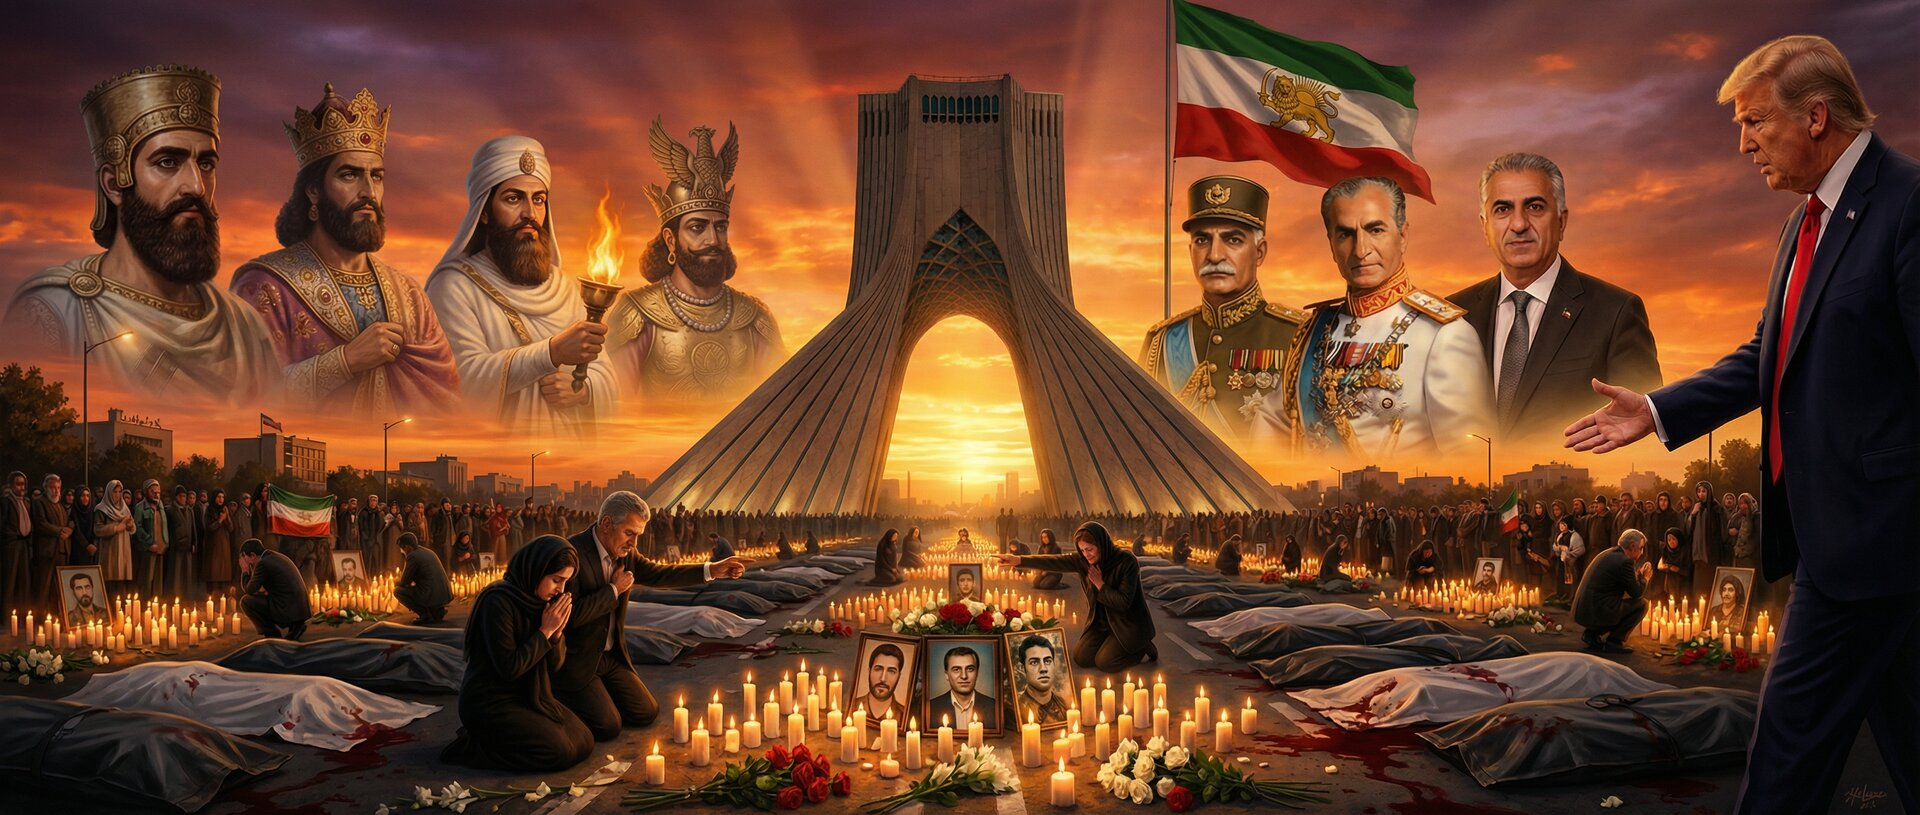
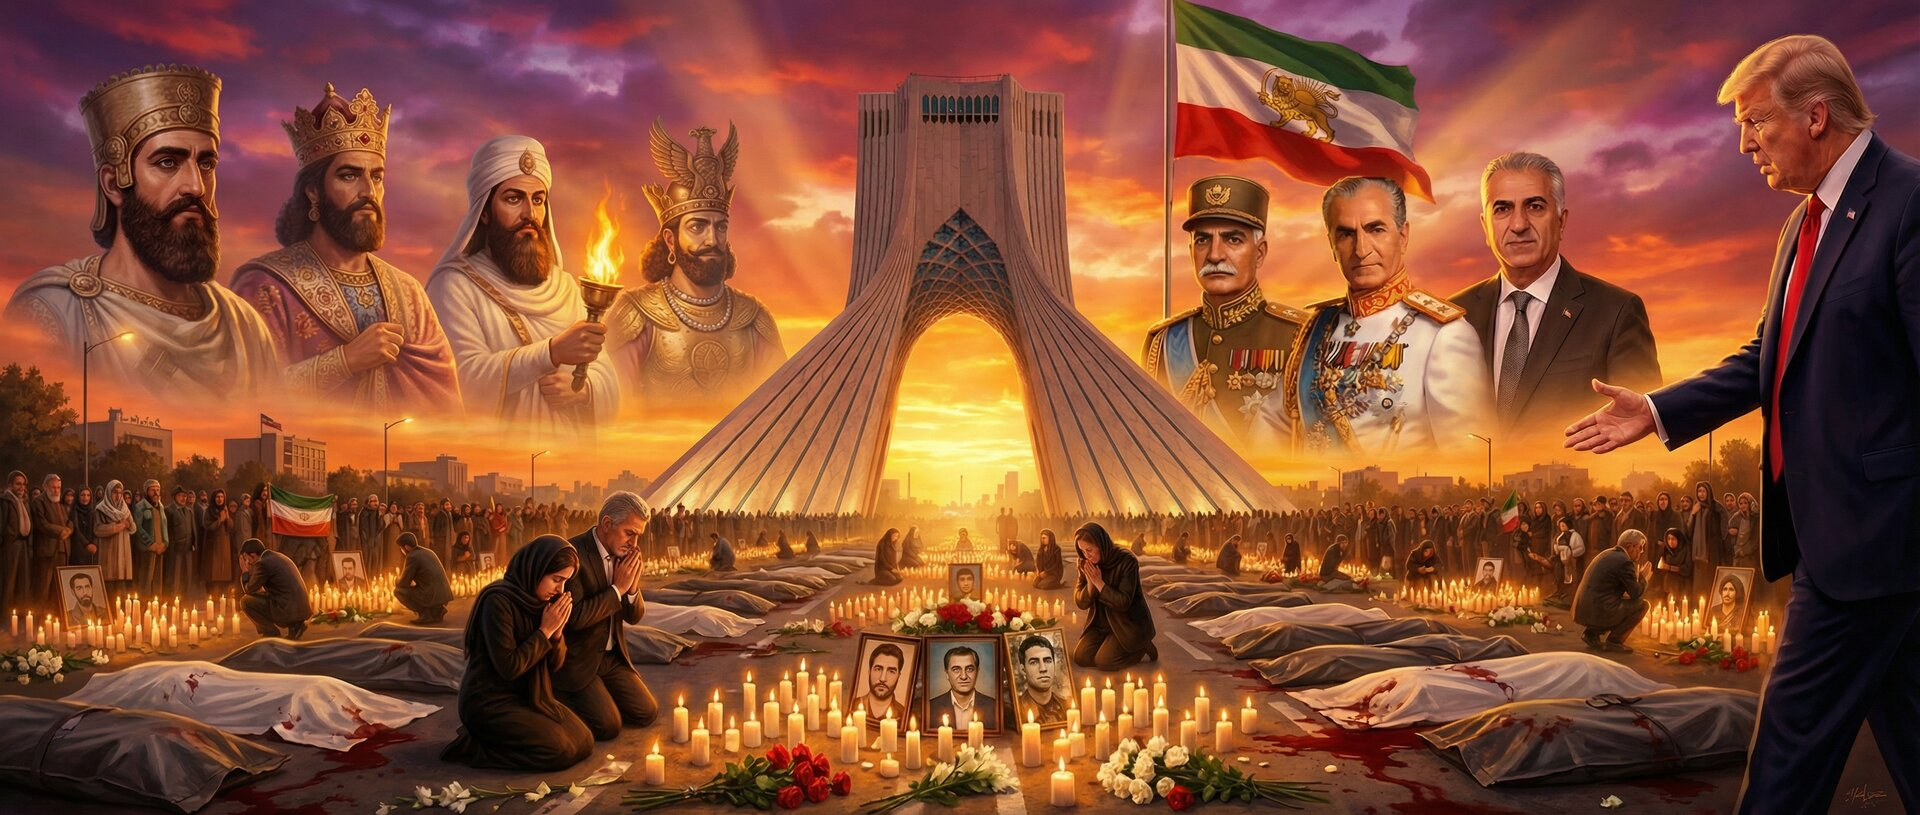
Dark mode only, red-only colors, simplified fonts, new hero
- Set dark mode as default (removed theme toggle)
- Removed all gold/yellow - using red only for accents
- Simplified font stack to system fonts
- Updated to lighter hero banner image (330KB)

diff --git a/src/styles.css b/src/styles.css
@@ -30,19 +30,19 @@
     --secondary-foreground: oklch(0.20 0.01 0);
     --muted: oklch(0.96 0 0);
     --muted-foreground: oklch(0.45 0.01 0);
-    --accent: var(--iran-gold);
-    --accent-foreground: oklch(0.15 0.01 0);
+    --accent: var(--iran-red-light);
+    --accent-foreground: oklch(0.99 0 0);
     --destructive: var(--iran-red-dark);
     --border: oklch(0.90 0 0);
     --input: oklch(0.90 0 0);
     --ring: var(--iran-red);
 
-    /* Chart colors using Iran palette */
+    /* Chart colors */
     --chart-1: var(--iran-red);
-    --chart-2: var(--iran-gold);
+    --chart-2: var(--iran-red-light);
     --chart-3: var(--iran-red-dark);
-    --chart-4: var(--iran-red-light);
-    --chart-5: var(--iran-gold-dark);
+    --chart-4: oklch(0.55 0.15 25);
+    --chart-5: oklch(0.65 0.12 25);
 
     --radius: 0.625rem;
 
@@ -70,17 +70,17 @@
     --secondary-foreground: oklch(0.95 0 0);
     --muted: oklch(0.22 0 0);
     --muted-foreground: oklch(0.60 0 0);
-    --accent: var(--iran-gold);
-    --accent-foreground: oklch(0.12 0 0);
+    --accent: var(--iran-red);
+    --accent-foreground: oklch(0.99 0 0);
     --destructive: var(--iran-red-dark);
     --border: oklch(1 0 0 / 12%);
     --input: oklch(1 0 0 / 15%);
     --ring: var(--iran-red-light);
     --chart-1: var(--iran-red-light);
-    --chart-2: var(--iran-gold-light);
-    --chart-3: var(--iran-red);
+    --chart-2: var(--iran-red);
+    --chart-3: oklch(0.70 0.15 25);
     --chart-4: var(--iran-red-dark);
-    --chart-5: var(--iran-gold);
+    --chart-5: oklch(0.50 0.18 25);
     --sidebar: oklch(0.16 0 0);
     --sidebar-foreground: oklch(0.95 0 0);
     --sidebar-primary: var(--iran-red-light);
@@ -92,9 +92,9 @@
 }
 
 @theme inline {
-    /* Fonts */
-    --font-sans: 'Inter Variable', ui-sans-serif, system-ui, sans-serif;
-    --font-farsi: 'Vazirmatn', 'Inter Variable', ui-sans-serif, system-ui, sans-serif;
+    /* Fonts - clean system stack */
+    --font-sans: ui-sans-serif, system-ui, -apple-system, BlinkMacSystemFont, "Segoe UI", Roboto, sans-serif;
+    --font-farsi: 'Vazirmatn', ui-sans-serif, system-ui, sans-serif;
 
     /* Iran Flag theme colors */
     --color-iran-green: var(--iran-green);

diff --git a/src/routes/submit-event.tsx b/src/routes/submit-event.tsx
@@ -1,5 +1,5 @@
 import { createFileRoute } from '@tanstack/react-router'
-import { useState } from 'react'
+import { useState, useEffect } from 'react'
 import {
   SignInButton,
   SignedIn,
@@ -116,11 +116,17 @@ function SignInPrompt() {
 
 function EventSubmissionForm() {
   const { user } = useUser()
-  const [formData, setFormData] = useState<FormData>({
-    ...initialFormData,
-    organizerEmail: user?.primaryEmailAddress?.emailAddress || '',
-    organizerName: user?.fullName || '',
-  })
+  const [formData, setFormData] = useState<FormData>(initialFormData)
+
+  useEffect(() => {
+    if (user) {
+      setFormData(prev => ({
+        ...prev,
+        organizerEmail: user.primaryEmailAddress?.emailAddress || prev.organizerEmail,
+        organizerName: user.fullName || prev.organizerName,
+      }))
+    }
+  }, [user])
   const [posterFile, setPosterFile] = useState<File | null>(null)
   const [posterPreview, setPosterPreview] = useState<string | null>(null)
   const [isSubmitting, setIsSubmitting] = useState(false)

diff --git a/src/components/layout/header.tsx b/src/components/layout/header.tsx
@@ -6,7 +6,6 @@ import {
   UserButton,
 } from '@clerk/tanstack-react-start'
 import { Button } from '@/components/ui/button'
-import { ThemeToggle } from '@/components/layout/theme-toggle'
 import { Megaphone, Info, Menu, X, Plus } from 'lucide-react'
 import { useState } from 'react'
 
@@ -70,7 +69,6 @@ export function Header() {
           </nav>
         </div>
         <div className="flex items-center gap-2">
-          <ThemeToggle />
           <AuthSection />
           <Button
             variant="ghost"

diff --git a/src/routes/__root.tsx b/src/routes/__root.tsx
@@ -72,7 +72,7 @@ function RootComponent() {
 
 function RootDocument({ children }: { children: React.ReactNode }) {
   return (
-    <html lang="en">
+    <html lang="en" className="dark">
       <head>
         <HeadContent />
       </head>
